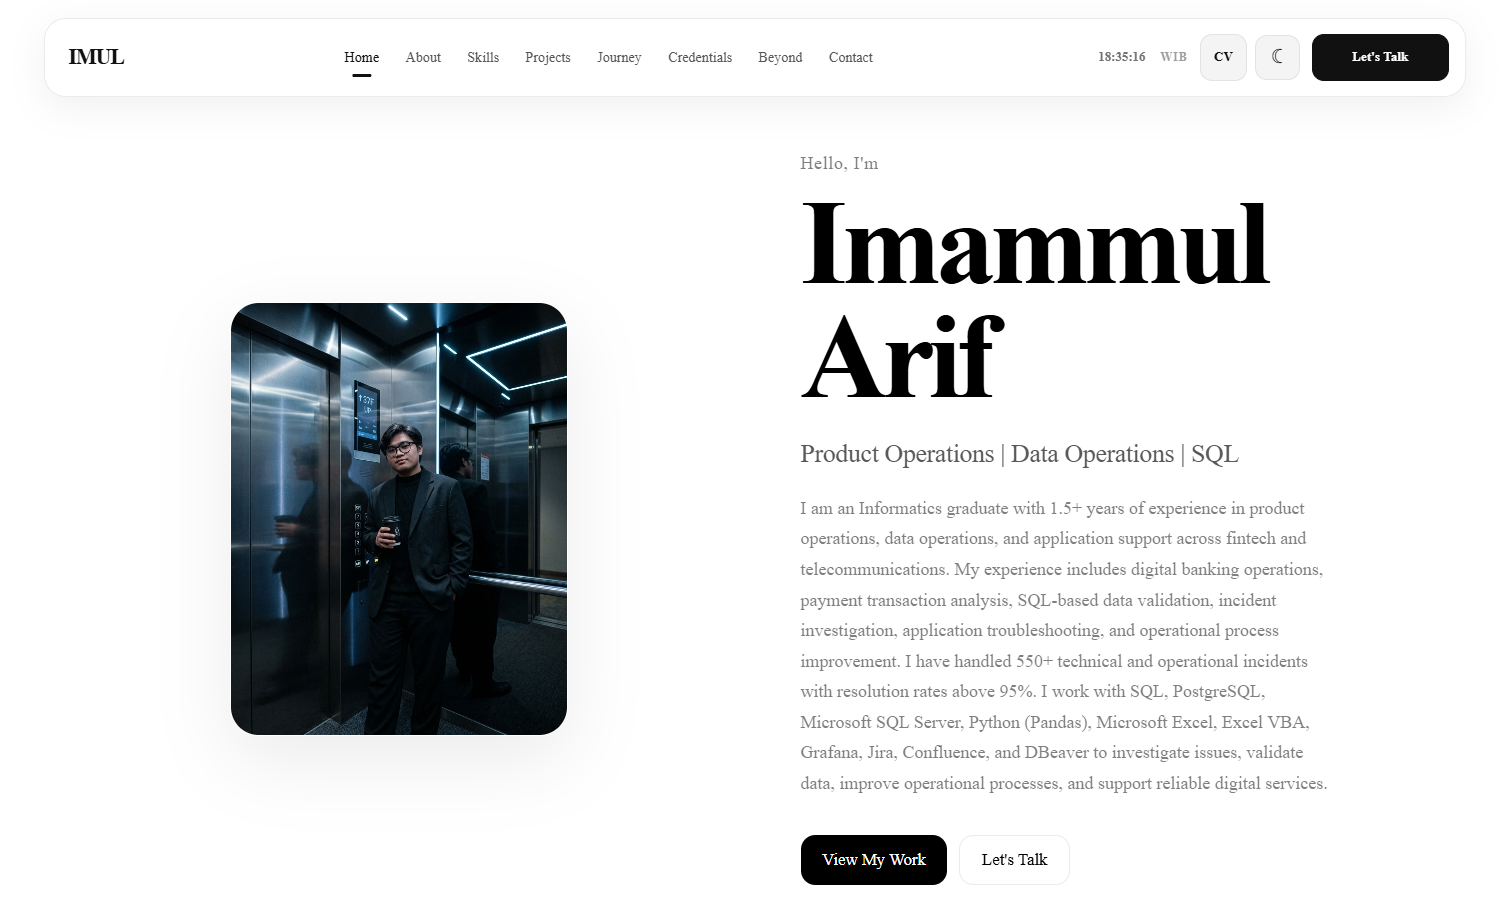
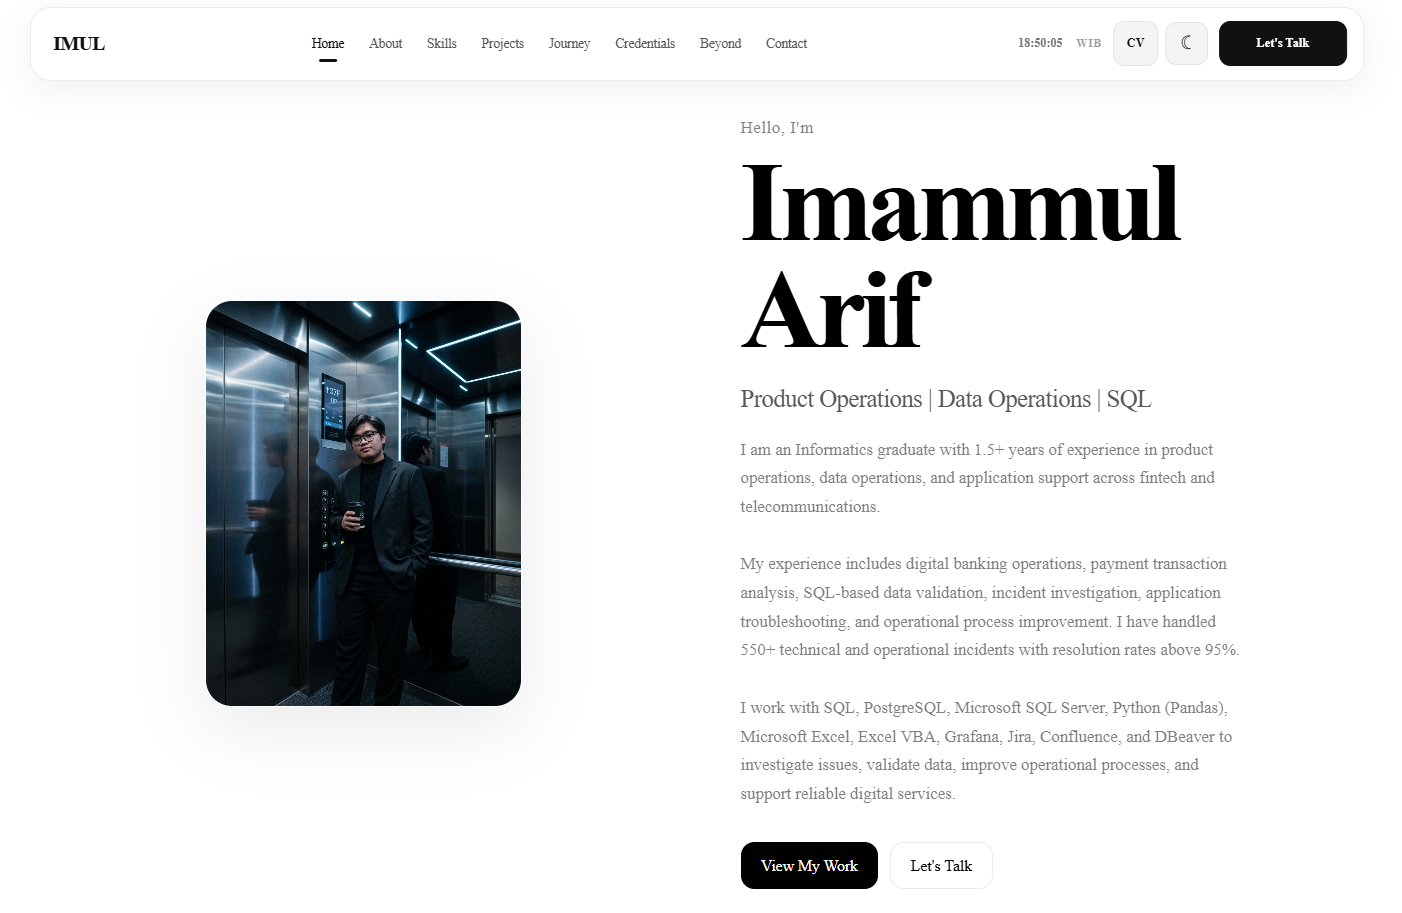
Penyesuaian

diff --git a/index.html b/index.html
@@ -134,9 +134,11 @@
 
       <p class="hero-description">
         I am an Informatics graduate with 1.5+ years of experience in product operations, data operations, and application support across fintech and telecommunications.
-
+<br>
+<br>
         My experience includes digital banking operations, payment transaction analysis, SQL-based data validation, incident investigation, application troubleshooting, and operational process improvement. I have handled 550+ technical and operational incidents with resolution rates above 95%.
-
+<br>
+<br>
         I work with SQL, PostgreSQL, Microsoft SQL Server, Python (Pandas), Microsoft Excel, Excel VBA, Grafana, Jira, Confluence, and DBeaver to investigate issues, validate data, improve operational processes, and support reliable digital services.
       <div class="hero-actions">
 
@@ -817,6 +819,10 @@
 
         <p>
           A game top-up website prototype designed to provide a simple and user-friendly experience for browsing game products, placing top-up orders, and tracking order history. Built with Next.js, TypeScript, and Supabase, featuring order management and email-based order recovery.
+        </p>
+        <br>
+        <p>
+          The project is currently on hiatus, with the existing prototype retained as a showcase of the product flow, database integration, and front-end development work.
         </p>
 
       </div>
